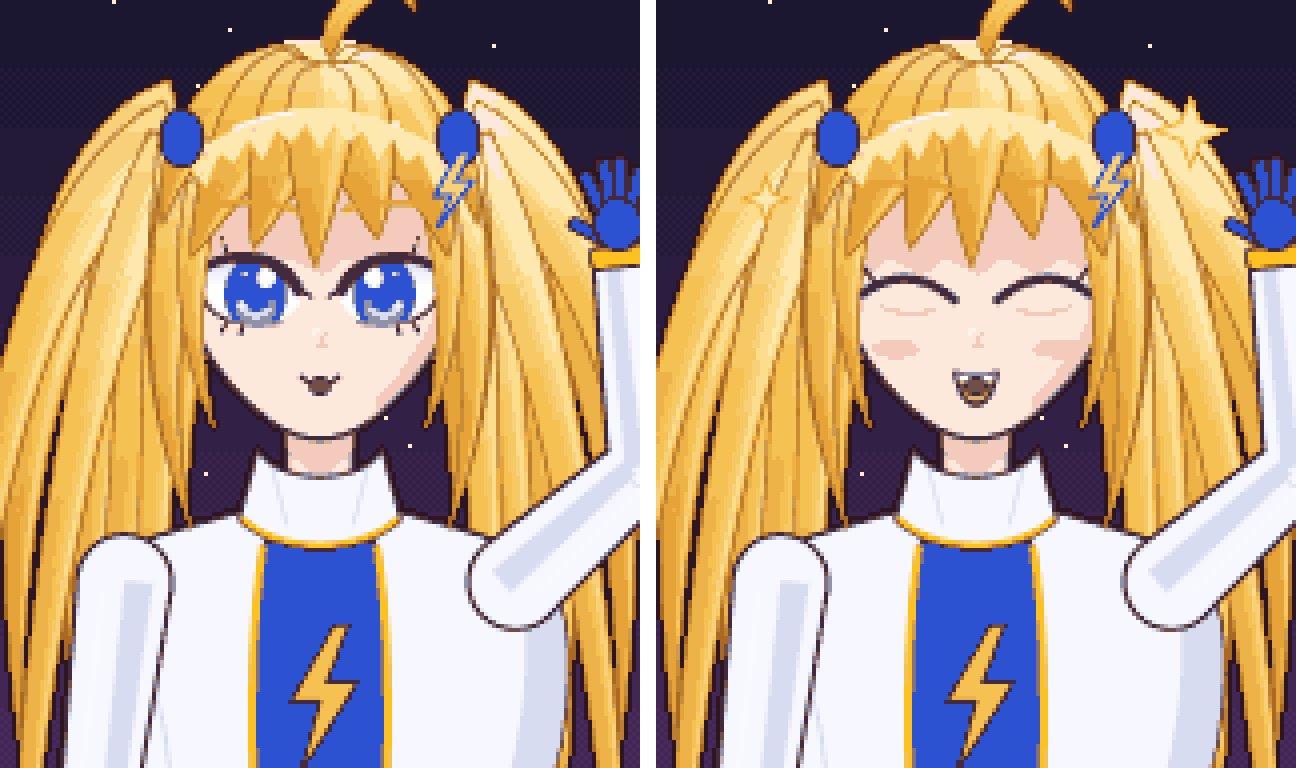
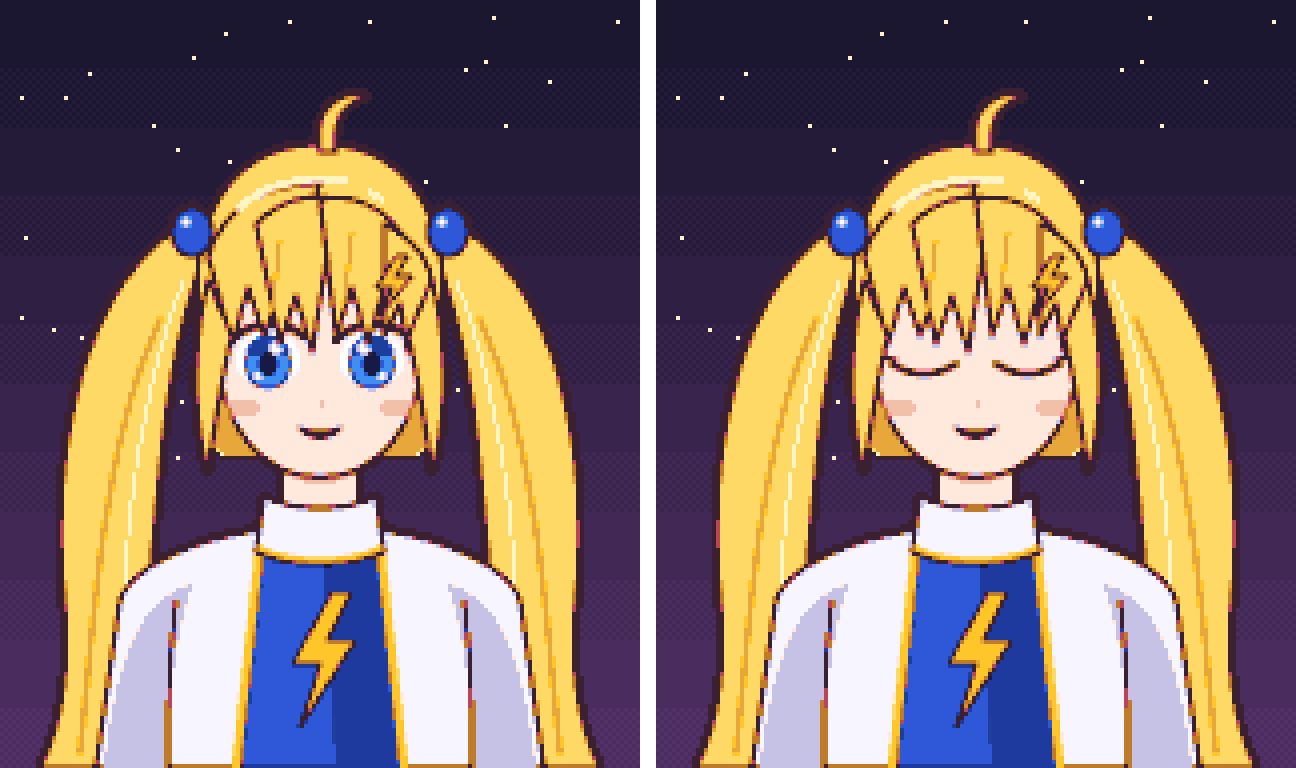
Redesign Hikari pixel art from scratch with new proportions
Claude-Session: https://claude.ai/code/session_01LRmMvFRVqn6B5y26eXPdT8

diff --git a/pixel-studio/hikari_source.html b/pixel-studio/hikari_source.html
@@ -1,0 +1,80 @@
+<!doctype html><meta charset="utf-8"><body style="background:#222"><script>
+const W=160,H=192,K=4;
+const P={line:'#3a2030',skin:'#ffe9dc',skinS:'#f2bfa8',blush:'#f7a0a8',hair:'#ffd966',hairS:'#e8a73a',hairD:'#bf7a2a',hairH:'#fff4c2',iris:'#3f8ef2',irisD:'#1c3f9e',pupil:'#171a44',white:'#ffffff',jacket:'#f7f5ff',jacketS:'#c6c2e6',trim:'#ffc62a',trimS:'#d9921c',blue:'#2f58d8',blueS:'#1f3a9e',mouth:'#b8455a'};
+function draw(ctx,blink){
+ const x=ctx; x.save(); x.scale(K,K); x.lineJoin='round'; x.lineCap='round';
+ const path=(d,fill,sw=1.1)=>{const p=new Path2D(d); if(fill){x.fillStyle=fill;x.fill(p)} if(sw){x.strokeStyle=P.line;x.lineWidth=sw;x.stroke(p)} return p};
+ const line=(d,c,w)=>{x.strokeStyle=c;x.lineWidth=w;x.stroke(new Path2D(d))};
+ // twin tails (behind everything)
+ path('M46,56 C22,70 12,110 16,150 C18,170 14,184 10,192 L40,192 C34,170 38,140 40,118 C42,96 46,76 52,62 Z',P.hair);
+ path('M114,56 C138,70 148,110 144,150 C142,170 146,184 150,192 L120,192 C126,170 122,140 120,118 C118,96 114,76 108,62 Z',P.hair);
+ line('M40,80 C26,110 24,150 20,188',P.hairS,1.4); line('M120,80 C134,110 136,150 140,188',P.hairS,1.4);
+ line('M46,70 C34,100 30,140 30,180',P.hairH,1); line('M114,70 C126,100 130,140 130,180',P.hairH,1);
+ // back hair
+ path('M50,84 C48,48 64,38 80,38 C96,38 112,48 110,84 C112,100 110,110 104,114 L56,114 C50,110 48,100 50,84 Z',P.hairS,0);
+ // torso / jacket
+ path('M30,150 C34,140 52,134 68,132 L92,132 C108,134 126,140 130,150 L136,192 L24,192 Z',P.jacket);
+ path('M112,146 C124,150 130,160 134,192 L118,192 C118,172 116,158 112,146 Z',P.jacketS,0);
+ path('M48,146 C36,150 30,160 26,192 L42,192 C42,172 44,158 48,146 Z',P.jacketS,0);
+ line('M44,150 C42,166 42,180 42,192',P.line,1); line('M116,150 C118,166 118,180 118,192',P.line,1); // arm creases: arms hang at sides
+ // inner blue top
+ path('M66,134 L94,134 L100,192 L60,192 Z',P.blue);
+ path('M80,134 L94,134 L100,192 L84,192 Z',P.blueS,0);
+ line('M65,136 L59,192',P.trim,2.2); line('M95,136 L101,192',P.trim,2.2);
+ // lightning emblem
+ path('M83,148 L73,166 L80,166 L75,182 L89,160 L82,160 L88,148 Z',P.trim,0.9);
+ // neck + collar
+ path('M71,108 L89,108 L90,132 L70,132 Z',P.skin);
+ path('M71,108 L89,108 L89,118 C84,122 76,122 71,118 Z',P.skinS,0);
+ path('M66,124 C72,128 88,128 94,124 L96,138 C88,142 72,142 64,138 Z',P.jacket);
+ line('M65,137 C72,141 88,141 95,137',P.trim,1.4);
+ // face
+ path('M53,76 C53,100 60,112 70,117 C75,120 85,120 90,117 C100,112 107,100 107,76 C107,56 96,46 80,46 C64,46 53,56 53,76 Z',P.skin);
+ // eyes
+ const eye=(cx,f)=>{ if(blink){ line(`M${cx-8},${91} Q${cx},${96} ${cx+8},${91}`,P.line,1.6); line(`M${cx+7*f},${90} l${3*f},-1`,P.line,1.1); return }
+  path(`M${cx-8},${90} C${cx-8},${80} ${cx+8},${80} ${cx+8},${90} C${cx+8},${99} ${cx-8},${99} ${cx-8},${90} Z`,P.white,0);
+  path(`M${cx-5.5},${91} C${cx-5.5},${82} ${cx+5.5},${82} ${cx+5.5},${91} C${cx+5.5},${99} ${cx-5.5},${99} ${cx-5.5},${91} Z`,P.iris,0.6);
+  path(`M${cx-5.5},${89} C${cx-5},${82} ${cx+5},${82} ${cx+5.5},${89} Z`,P.irisD,0);
+  path(`M${cx-2.5},${91} C${cx-2.5},${87} ${cx+2.5},${87} ${cx+2.5},${91} C${cx+2.5},${95} ${cx-2.5},${95} ${cx-2.5},${91} Z`,P.pupil,0);
+  x.fillStyle=P.white; x.beginPath(); x.arc(cx-2*f,87,1.8,0,7); x.fill(); x.beginPath(); x.arc(cx+2.5*f,94,1,0,7); x.fill();
+  line(`M${cx-9},${85} C${cx-4},${80} ${cx+4},${80} ${cx+9},${84}`,P.line,2); line(`M${cx+8*f},${84} l${3*f},-2`,P.line,1.2);
+  line(`M${cx-7},${76} Q${cx},${73} ${cx+7},${75}`,P.hairD,1) };
+ eye(67,-1); eye(93,1);
+ x.fillStyle=P.blush; x.globalAlpha=.55; x.beginPath(); x.ellipse(60,102,5,2.4,0,0,7); x.fill(); x.beginPath(); x.ellipse(100,102,5,2.4,0,0,7); x.fill(); x.globalAlpha=1;
+ line('M80,100 l0.4,1',P.skinS,1.2);
+ path('M75,107 Q80,112 85,107 Q80,109 75,107 Z',P.mouth,0.9);
+ // hair top + bangs
+ path('M50,82 C46,52 60,36 80,36 C100,36 114,52 110,82 C104,70 96,62 80,62 C64,62 56,70 50,82 Z',P.hair,0); line('M50,82 C46,52 60,36 80,36 C100,36 114,52 110,82',P.line,1.1);
+ path('M52,64 C56,52 66,46 80,46 L66,84 L62,72 L58,86 Z',P.hair); // left bang cluster
+ path('M64,56 C70,50 78,48 84,50 L78,88 L74,74 L70,86 Z',P.hair);
+ path('M80,50 C88,48 96,52 100,58 L92,86 L88,72 L84,84 Z',P.hair);
+ path('M96,56 C104,60 108,66 108,72 L102,88 L100,76 L96,84 Z',P.hair);
+ path('M52,70 C48,86 48,104 52,118 C54,104 56,92 58,84 Z',P.hair); // side locks
+ path('M108,70 C112,86 112,104 108,118 C106,104 104,92 102,84 Z',P.hair);
+ line('M60,52 C66,46 76,44 86,45',P.hairH,2); line('M92,48 l4,2',P.hairH,1.4);
+ line('M70,60 L68,78',P.hairS,0.9); line('M88,58 L86,76',P.hairS,0.9);
+ // ahoge
+ path('M80,38 C78,28 84,22 92,24 C86,26 83,30 84,38 Z',P.hair);
+ // hair ties + clip
+ [[48,58],[112,58]].forEach(([a,b])=>{path(`M${a-5},${b} a5,6 0 1,0 10,0 a5,6 0 1,0 -10,0`,P.blue); x.fillStyle=P.white; x.beginPath(); x.arc(a-1.5,b-2.5,1.2,0,7); x.fill()});
+ path('M99,64 L94,72 L98,72 L95,79 L103,69 L99,69 L102,64 Z',P.trim,0.8);
+ x.restore();
+}
+function toPix(blink){const c=document.createElement('canvas');c.width=W*K;c.height=H*K;draw(c.getContext('2d'),blink);const s=document.createElement('canvas');s.width=W;s.height=H;const sx=s.getContext('2d');sx.imageSmoothingQuality='high';const m=document.createElement('canvas');m.width=W*2;m.height=H*2;m.getContext('2d').drawImage(c,0,0,W*2,H*2);sx.drawImage(m,0,0,W,H);return sx.getImageData(0,0,W,H).data}
+const PAL=Object.values(P).map(h=>[parseInt(h.slice(1,3),16),parseInt(h.slice(3,5),16),parseInt(h.slice(5,7),16)]);
+const LI=PAL[0];
+function build(blink){const d=toPix(blink),f=new Uint8ClampedArray(W*H*4),l=new Uint8ClampedArray(W*H*4),op=i=>d[i*4+3]>110;
+ for(let i=0;i<W*H;i++){if(!op(i))continue;const a=d[i*4+3]/255;let r=d[i*4]/a,g=d[i*4+1]/a,b=d[i*4+2]/a,bi=0,bd=1e9;PAL.forEach((c,j)=>{if(j===0&&(r*.3+g*.59+b*.11)>95)return;if((j===3||j===18)&&d[i*4+3]<250)return;const q=(c[0]-r)**2*.3+(c[1]-g)**2*.59+(c[2]-b)**2*.11;if(q<bd){bd=q;bi=j}});const c=PAL[bi];(bi===0?l:f).set([c[0],c[1],c[2],255],i*4)}
+ for(let y=0;y<H;y++)for(let x=0;x<W;x++){const i=y*W+x;if(op(i))continue;if([[1,0],[-1,0],[0,1],[0,-1]].some(([a,b])=>{const X=x+a,Y=y+b;return X>=0&&Y>=0&&X<W&&Y<H&&op(Y*W+X)}))l.set([...LI,255],i*4)}
+  return [f,l]}
+const [f0,l0]=build(false),[f1,l1]=build(true);
+const bg=new Uint8ClampedArray(W*H*4),A=[27,23,48],B=[84,48,104];
+for(let y=0;y<H;y++)for(let x=0;x<W;x++){const t=y/H*6,band=t|0,use=((x+y)&1)&&t-band>.5?band+1:band,k=Math.min(1,use/6);bg.set([A[0]+(B[0]-A[0])*k,A[1]+(B[1]-A[1])*k,A[2]+(B[2]-A[2])*k,255],(y*W+x)*4)}
+let s=11;const rnd=()=>(s=(s*1664525+1013904223)>>>0)/4294967296;for(let n=0;n<34;n++){const x=rnd()*W|0,y=rnd()*H*.6|0;bg.set([255,240,200,255],(y*W+x)*4)}
+const url=a=>{const c=document.createElement('canvas');c.width=W;c.height=H;c.getContext('2d').putImageData(new ImageData(a,W,H),0,0);return c.toDataURL()};
+const L=(name,cels)=>({name,visible:true,opacity:1,locked:false,guide:false,cels:cels.map(url)});
+const proj={app:'moonkai-pixel',v:1,w:W,h:H,fps:3,frames:2,palette:Object.values(P),palName:'Anime Essentials',layers:[L('Background',[bg,bg]),L('Hikari · Colours',[f0,f1]),L('Line Art',[l0,l1])]};
+const pv=document.createElement('canvas');pv.width=W*8+16;pv.height=H*4;const px=pv.getContext('2d');px.imageSmoothingEnabled=false;
+[[f0,l0],[f1,l1]].forEach(([f,l],i)=>{const c=document.createElement('canvas');c.width=W;c.height=H;const cx=c.getContext('2d');for(const a of [bg,f,l]){const t=document.createElement('canvas');t.width=W;t.height=H;t.getContext('2d').putImageData(new ImageData(a,W,H),0,0);cx.drawImage(t,0,0)}px.drawImage(c,i*(W*4+16),0,W*4,H*4)});
+window.RESULT={proj:JSON.stringify(proj),png:pv.toDataURL()};
+</script>
